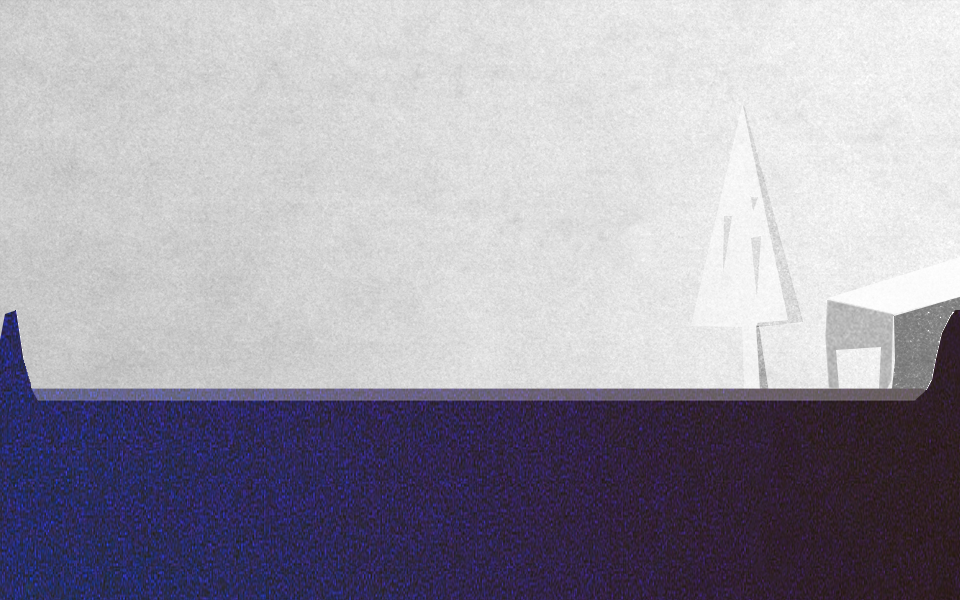
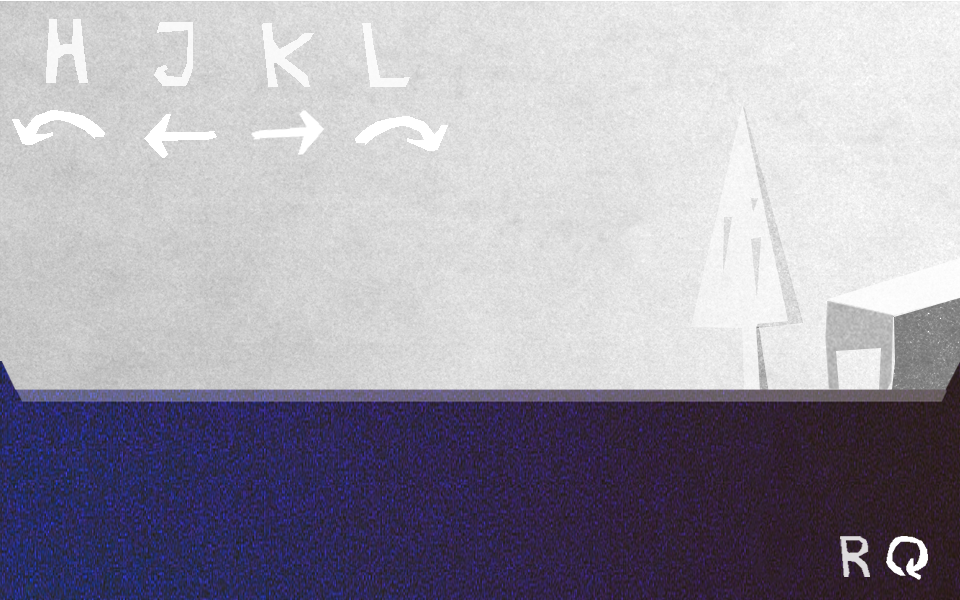
added menu backgrounds; updated level_1 background; updated paths

diff --git a/src/main/java/org/academiadecodigo/haltistas/besquare/FilePath.java b/src/main/java/org/academiadecodigo/haltistas/besquare/FilePath.java
@@ -9,8 +9,8 @@ public class FilePath {
     public final static String LEVEL_1_PNG = "/backgrounds/level_1.png";
     public final static String LEVEL_1_TXT = "/levels/level_1.txt";
 
-    public final static String LEVEL_2_PNG = "/backgrounds/level_5.png";
-    public final static String LEVEL_2_TXT = "/levels/level_5.txt";
+    public final static String LEVEL_2_PNG = "/backgrounds/level_2.png";
+    public final static String LEVEL_2_TXT = "/levels/level_2.txt";
 
     public final static String LEVEL_3_PNG = "/backgrounds/level_3.png";
     public final static String LEVEL_3_TXT = "/levels/level_3.txt";
@@ -21,7 +21,7 @@ public class FilePath {
     public final static String LEVEL_5_PNG = "/backgrounds/level_5.png";
     public final static String LEVEL_5_TXT = "/levels/level_5.txt";
 
-    public final static String LEVEL_6_PNG = "/backgrounds/level_1.png";
-    public final static String LEVEL_6_TXT = "/levels/level_3.txt";
+    public final static String LEVEL_6_PNG = "/backgrounds/endView.png";
+    public final static String LEVEL_6_TXT = "/levels/level_2.txt";
 
 }
